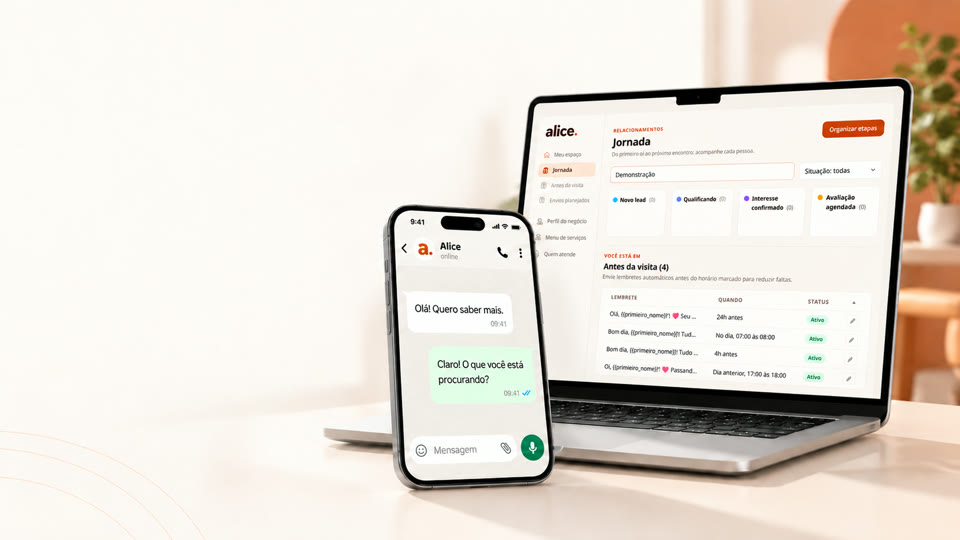
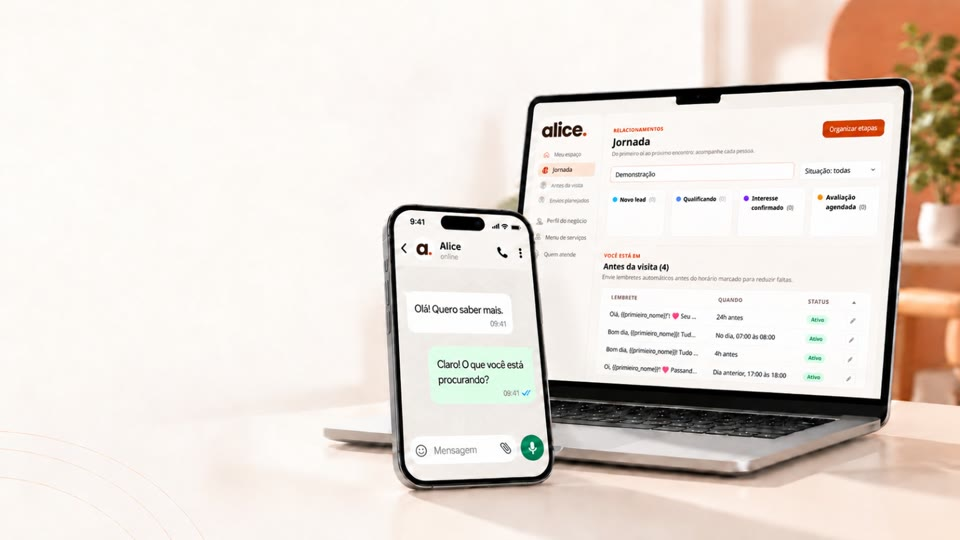
Landing: hero com a foto nova (1600x900, jpg leve em 960 e 1600 px)

diff --git a/public/site/index.html b/public/site/index.html
@@ -60,7 +60,7 @@
   <main id="conteudo">
     <!-- ===== PRIMEIRA DOBRA ===== -->
     <section class="hero" id="topo" aria-labelledby="h1">
-      <img class="hero-bg" src="/assets/hero-1672.jpg" srcset="/assets/hero-960.jpg 960w, /assets/hero-1672.jpg 1672w" sizes="100vw" alt="Painel da Alice com a jornada de atendimento e uma conversa de WhatsApp no celular (demonstração ilustrativa)" width="1672" height="941" fetchpriority="high" decoding="async" />
+      <img class="hero-bg" src="/assets/hero-1600.jpg" srcset="/assets/hero-960.jpg 960w, /assets/hero-1600.jpg 1600w" sizes="100vw" alt="Painel da Alice com a jornada de atendimento e uma conversa de WhatsApp no celular (demonstração ilustrativa)" width="1600" height="900" fetchpriority="high" decoding="async" />
       <div class="container hero-grid">
         <div class="hero-copy">
           <a href="/" class="hero-logo" aria-label="Alice — página inicial">alice<span>.</span></a>
